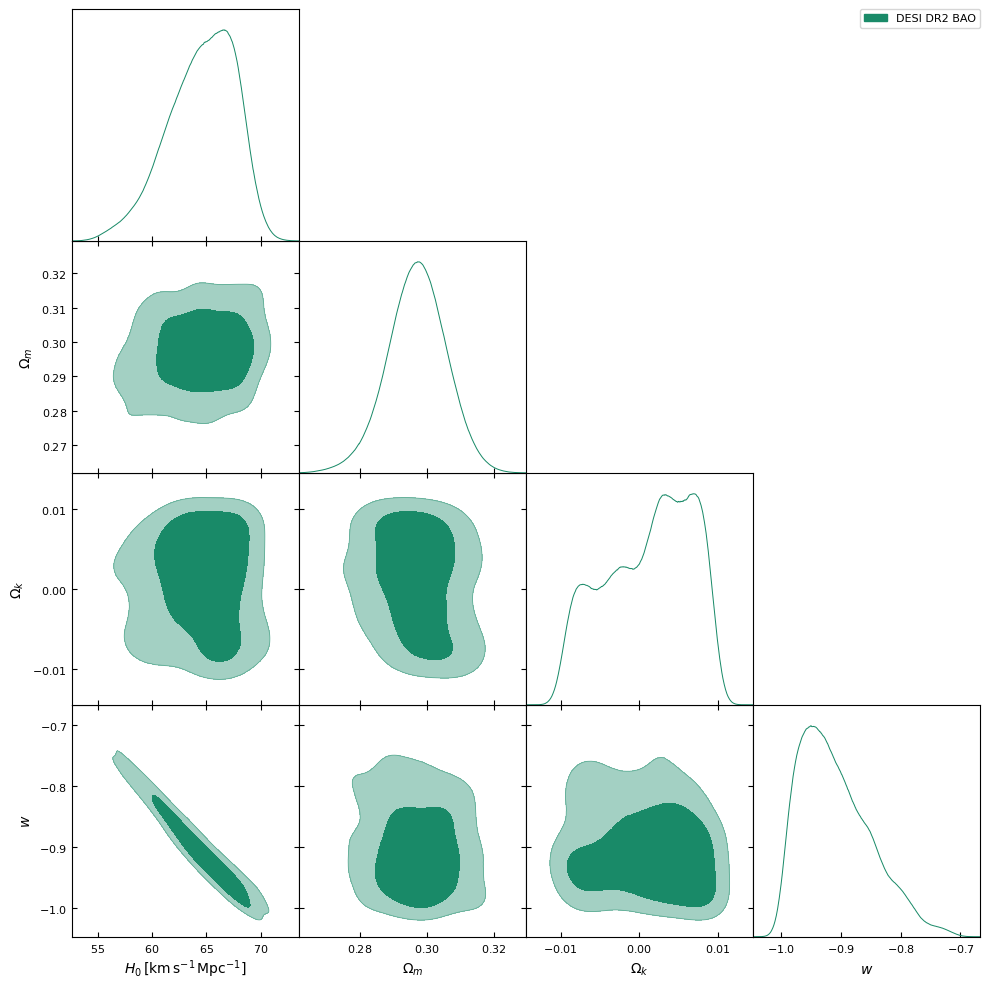
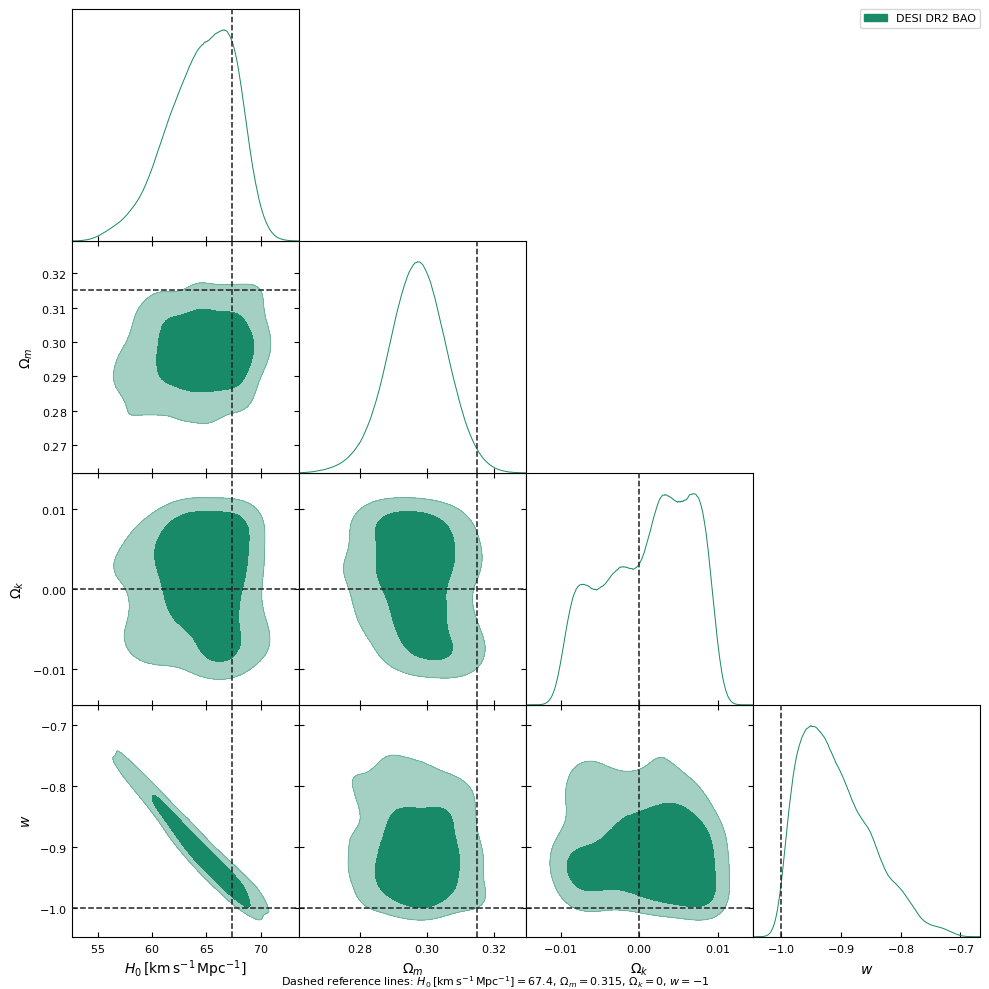
Added lines to the graphs

diff --git a/scripts/getdist_corner.py b/scripts/getdist_corner.py
@@ -20,6 +20,10 @@ FIGURES = ROOT / "output" / "continuous" / "figures"
 BURN_FRACTION = 0.30
 THIN = 10
 COMMON = ("h0", "omega_m", "omega_k", "w")
+# Planck 2018 base-Lambda-CDM benchmarks; M is the configured nuisance
+# fiducial, not a universal constant. Values use the plotted units.
+REFERENCE_VALUES = {"h0": 67.4, "omega_m": 0.315, "omega_k": 0.0,
+                    "w": -1.0, "omega_b": 0.0493, "m": -19.35}
 PARAMETERS = {
     "cosmological_parameters--h0": ("h0", r"H_0\,[\mathrm{km}\,\mathrm{s}^{-1}\,\mathrm{Mpc}^{-1}]", 100),
     "cosmological_parameters--omega_m": ("omega_m", r"\Omega_m", 1),
@@ -72,6 +76,24 @@ def render(samples, params, colors, labels, destination, width):
     plotter.triangle_plot(samples, params=list(params), filled=True,
                          contour_colors=list(colors), legend_labels=list(labels),
                          legend_loc="upper right")
+    for row, y_name in enumerate(params):
+        for column, x_name in enumerate(params[:row + 1]):
+            ax = plotter.subplots[row, column]
+            # Include references outside the posterior's automatic axis limits.
+            x_limits = ax.get_xlim()
+            x_ref = REFERENCE_VALUES[x_name]
+            ax.set_xlim(min(x_limits[0], x_ref), max(x_limits[1], x_ref))
+            ax.axvline(x_ref, color="#222222", ls="--", lw=1.1, zorder=10)
+            if row != column:
+                y_limits = ax.get_ylim()
+                y_ref = REFERENCE_VALUES[y_name]
+                ax.set_ylim(min(y_limits[0], y_ref), max(y_limits[1], y_ref))
+                ax.axhline(y_ref, color="#222222", ls="--", lw=1.1, zorder=10)
+    references = ", ".join(
+        f"${PARAMETERS[key][1]} = {REFERENCE_VALUES[name]:g}$"
+        for name in params for key in PARAMETERS if PARAMETERS[key][0] == name)
+    plotter.fig.text(0.5, 0.005, "Dashed reference lines: " + references,
+                     ha="center", va="bottom", fontsize=8)
     plotter.export(str(destination))
 
 

diff --git a/scripts/continuous_postprocess.py b/scripts/continuous_postprocess.py
@@ -285,11 +285,14 @@ class ContinuousCorner(PostProcessorElement):
                     ax.set_visible(False)
                     continue
                 ax.set_xlim(*PARAMETERS[column][2])
+                reference = (67.4, 0.315, 0.0, -1.0)
+                ax.axvline(reference[column], color="#222", ls="--", lw=1.1, zorder=10)
                 if row == column:
                     ax.set_ylim(0, 1.14)
                     ax.set_yticks([0, 0.5, 1.0] if column == 0 else [])
                 else:
                     ax.set_ylim(*PARAMETERS[row][2])
+                    ax.axhline(reference[row], color="#222", ls="--", lw=1.1, zorder=10)
                 ax.tick_params(direction="in", top=True, right=True, labelsize=8)
                 ax.grid(alpha=0.10)
                 if row < 3:
@@ -316,7 +319,8 @@ class ContinuousCorner(PostProcessorElement):
         handles = [Patch(facecolor=color, edgecolor=color, alpha=0.65, label=label)
                    for label, color in zip(DATASETS, COLORS)]
         handles += [Line2D([0], [0], color="#555", lw=1.8, label="Sampled posterior"),
-                    Line2D([0], [0], color="#555", lw=1.8, ls="--", label="$H_0$ Gaussian summary")]
+                    Line2D([0], [0], color="#555", lw=1.8, ls="--", label="$H_0$ Gaussian summary"),
+                    Line2D([0], [0], color="#222", lw=1.1, ls="--", label="ΛCDM reference values")]
         fig.legend(handles=handles, loc="upper left", bbox_to_anchor=(0.10, 0.856),
                    ncol=4, frameon=False, fontsize=9)
         fig.text(0.10, 0.045,

diff --git a/scripts/corner_postprocess.py b/scripts/corner_postprocess.py
@@ -112,8 +112,14 @@ class CurvedCorner(PostProcessorElement):
                 axis.set_yticks([0, 0.5, 1.0])
             for axis in (top, joint):
                 axis.set_xlim(*H0_RANGE)
-            joint.set_ylim(*W_RANGE)
-            w_diagonal.set_xlim(*W_RANGE)
+            # The Lambda-CDM reference is outside these historical phantom-w
+            # priors; show it explicitly without changing the saved samples.
+            joint.set_ylim(W_RANGE[0], -0.98)
+            w_diagonal.set_xlim(W_RANGE[0], -0.98)
+            top.axvline(67.4, color="#222", ls="--", lw=1.1, zorder=10)
+            joint.axvline(67.4, color="#222", ls="--", lw=1.1, zorder=10)
+            joint.axhline(-1.0, color="#222", ls="--", lw=1.1, zorder=10)
+            w_diagonal.axvline(-1.0, color="#222", ls="--", lw=1.1, zorder=10)
             for axis in (top, joint, w_diagonal):
                 axis.tick_params(direction="in", top=True, right=True, labelsize=9)
                 axis.grid(alpha=0.10)
@@ -131,4 +137,7 @@ class CurvedCorner(PostProcessorElement):
         fig.text(0.065, 0.055,
                  "Diagonal: marginalized posterior  ·  Inner/outer shaded contours: 68%/95% credible regions  ·  BAO $H_0$ prior ≤ 95",
                  ha="left", va="bottom", fontsize=9, color="#444444")
+        fig.text(0.065, 0.02,
+                 "Dashed references: H₀ = 67.4 km/s/Mpc; w = −1 (outside the sampled phantom-w prior).",
+                 ha="left", va="bottom", fontsize=9, color="#222222")
         return fig

diff --git a/README.md b/README.md
@@ -27,7 +27,57 @@ The saved chains were marginalized over the other sampled parameters to obtain a
 
 **These numbers are provisional diagnostics, not reported measurements.** None of the four chains passed the agreed autocorrelation convergence rule within the maximum of three checks per dataset. Their centers and widths could change with better exploration of parameter space, so this study does not yet quantify a statistically reliable \(H_0\) discrepancy.
 
-The [GetDist corner overlay](output/continuous/figures/continuous_corner.png) assigns a different colour to each independent probe and compares the four shared parameters. Full corner plots for [DES-Y3 BAO](output/continuous/figures/continuous_corner_des_y3_bao.png), [Pantheon+SH0ES](output/continuous/figures/continuous_corner_pantheonplussh0es.png), [DESI DR2 BAO](output/continuous/figures/continuous_corner_desi_dr2_bao.png), and [compressed Planck](output/continuous/figures/continuous_corner_planck_compressed.png) show every sampled parameter in each chain, including Pantheon's magnitude nuisance parameter and Planck's baryon density. The earlier [fixed-curvature corner plot](output/curved/native_postprocess/corner/h0_w_corner.png) compares \(H_0\) and \(w\) for those runs.
+## Corner plots for every continuous pipeline
+
+Black dashed lines mark the same reference cosmology on each diagonal and both axes of every joint panel. These are comparison benchmarks, not acceptance thresholds or additional likelihood constraints. The [Planck 2018 base-ΛCDM results](https://www.aanda.org/articles/aa/full_html/2020/09/aa33910-18/aa33910-18.html) motivate H₀ = 67.4 km s⁻¹ Mpc⁻¹ and Ωₘ = 0.315; Ωₖ = 0 and w = −1 specify flat ΛCDM. The Planck baryon reference Ω_b = 0.0493 matches the configured fiducial (rounded from Ω_b h² ≈ 0.0224 and h = 0.674). Pantheon's M = −19.35 is its configured nuisance-parameter fiducial, not a known universal constant. No uncertainty bands are implied by these single reference lines.
+
+### All four independent pipelines
+
+The overlay compares their four shared parameters; colours distinguish probes.
+
+![Continuous corner overlay for all four pipelines](output/continuous/figures/continuous_corner.png)
+
+### DES-Y3 BAO
+
+![DES-Y3 BAO continuous corner plot](output/continuous/figures/continuous_corner_des_y3_bao.png)
+
+### Pantheon+SH0ES
+
+Includes the sampled supernova magnitude nuisance parameter M.
+
+![Pantheon+SH0ES continuous corner plot](output/continuous/figures/continuous_corner_pantheonplussh0es.png)
+
+### DESI DR2 BAO
+
+![DESI DR2 BAO continuous corner plot](output/continuous/figures/continuous_corner_desi_dr2_bao.png)
+
+### Planck 2018 compressed
+
+Includes the sampled baryon density Ω_b. This pipeline uses compressed information rather than the full Planck likelihood.
+
+![Compressed Planck continuous corner plot](output/continuous/figures/continuous_corner_planck_compressed.png)
+
+### Earlier fixed-curvature pipelines
+
+Colours represent fixed Ωₖ choices. The w = −1 reference lies outside these historical runs' phantom-w prior [−1.5, −1.3]; the displayed axis is extended to show it.
+
+![Earlier fixed-curvature H0–w corner comparison](output/curved/native_postprocess/corner/h0_w_corner.png)
+
+### Reproduce the figures
+
+With NumPy, Matplotlib and GetDist installed, regenerate all five continuous corner figures from the saved chains:
+
+```sh
+python scripts/getdist_corner.py
+```
+
+To regenerate the earlier fixed-curvature comparison in a CosmoSIS environment:
+
+```sh
+sh scripts/create_native_figures.sh
+```
+
+Both commands reuse the saved chains, discard 30% burn-in and thin by ten. They do not rerun sampling or change the convergence status.
 
 ## What needs improvement
 
